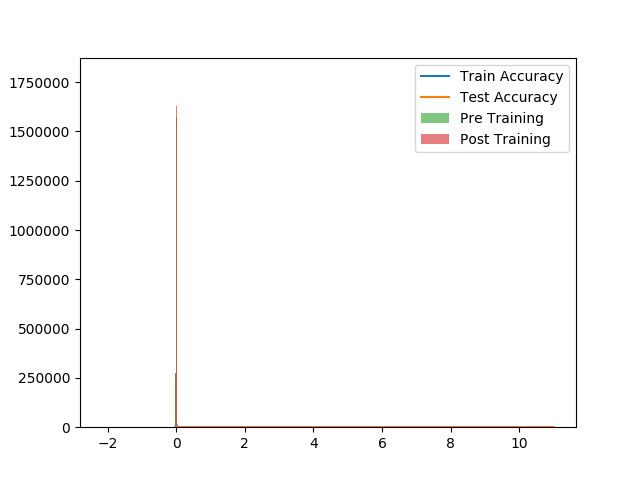
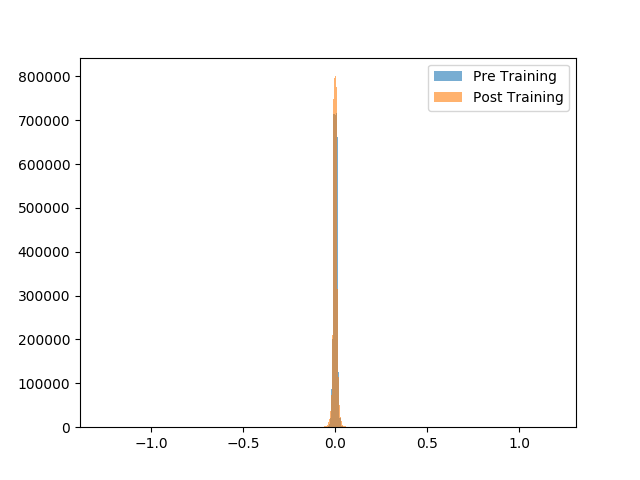
Test dist of weights

diff --git a/train_flowers.py b/train_flowers.py
@@ -145,10 +145,10 @@ def draw_accuracies(train_acc, test_acc):
 
 def plot():
     plt.cla()
-    mn = min(np.min(pre_learn_weights), np.min(post_learn_weights))
-    mx = max(np.max(pre_learn_weights), np.max(post_learn_weights))
-    plt.hist(pre_learn_weights, label='Pre Training', range=(mn, mx), bins=1000, alpha=0.6)
-    plt.hist(post_learn_weights, label='Post Training', range=(mn, mx), bins=1000, alpha=0.6)
+    # mn = min(np.min(pre_learn_weights), np.min(post_learn_weights))
+    # mx = max(np.max(pre_learn_weights), np.max(post_learn_weights))
+    plt.hist(pre_learn_weights, label='Pre Training', range=(-0.5, 0.5), bins=1000, alpha=0.6)
+    plt.hist(post_learn_weights, label='Post Training', range=(-0.5, 0.5), bins=1000, alpha=0.6)
     plt.legend()
     plt.savefig(DATA_SET + '_plt.png')
 
